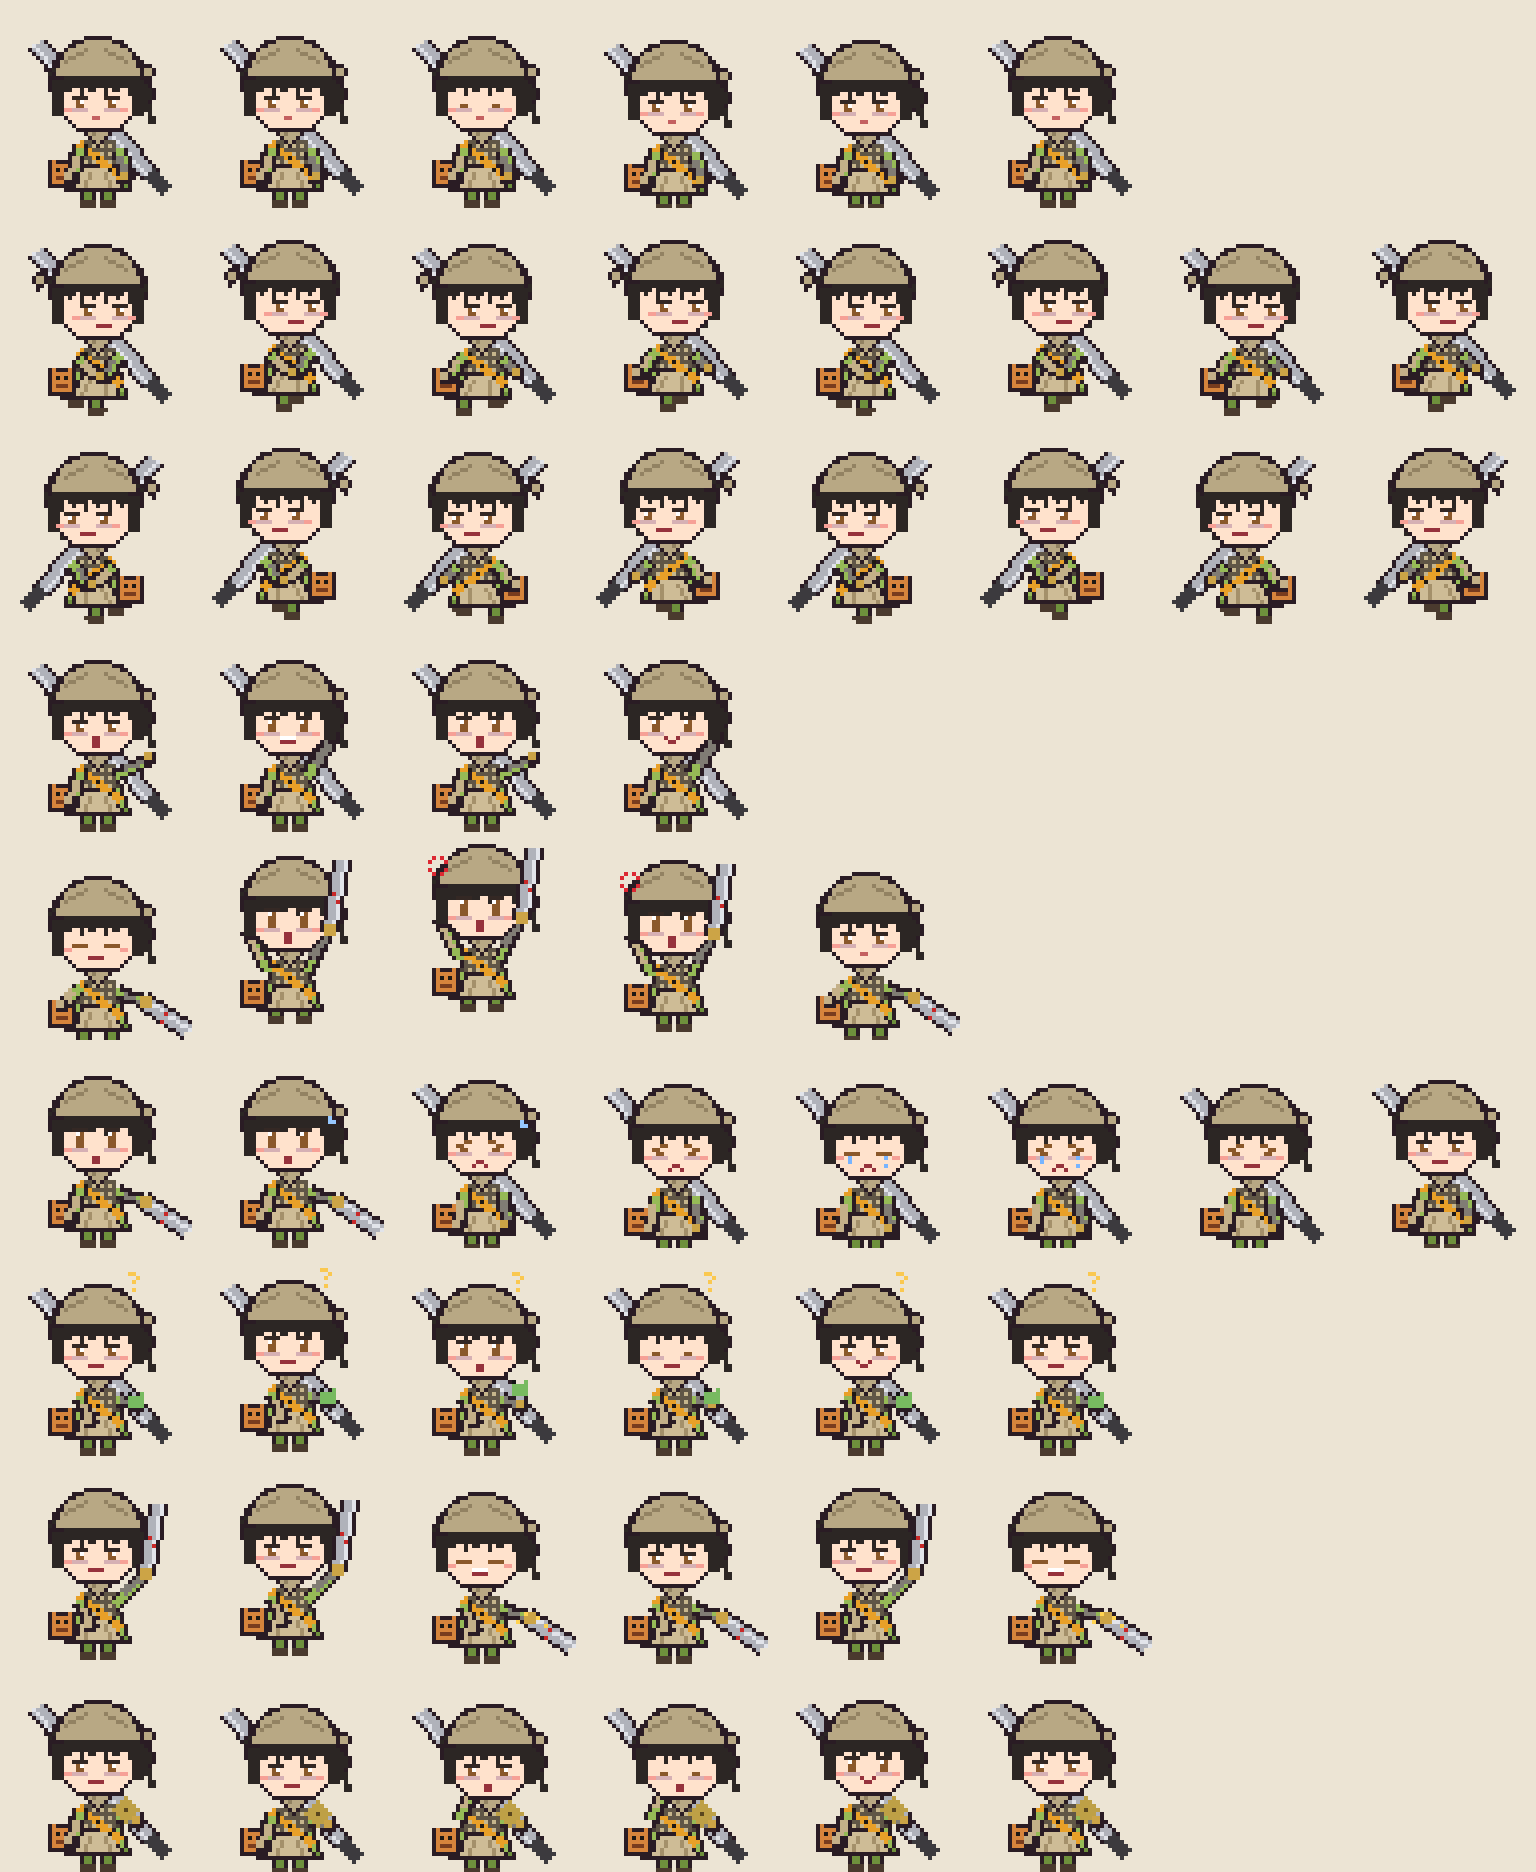
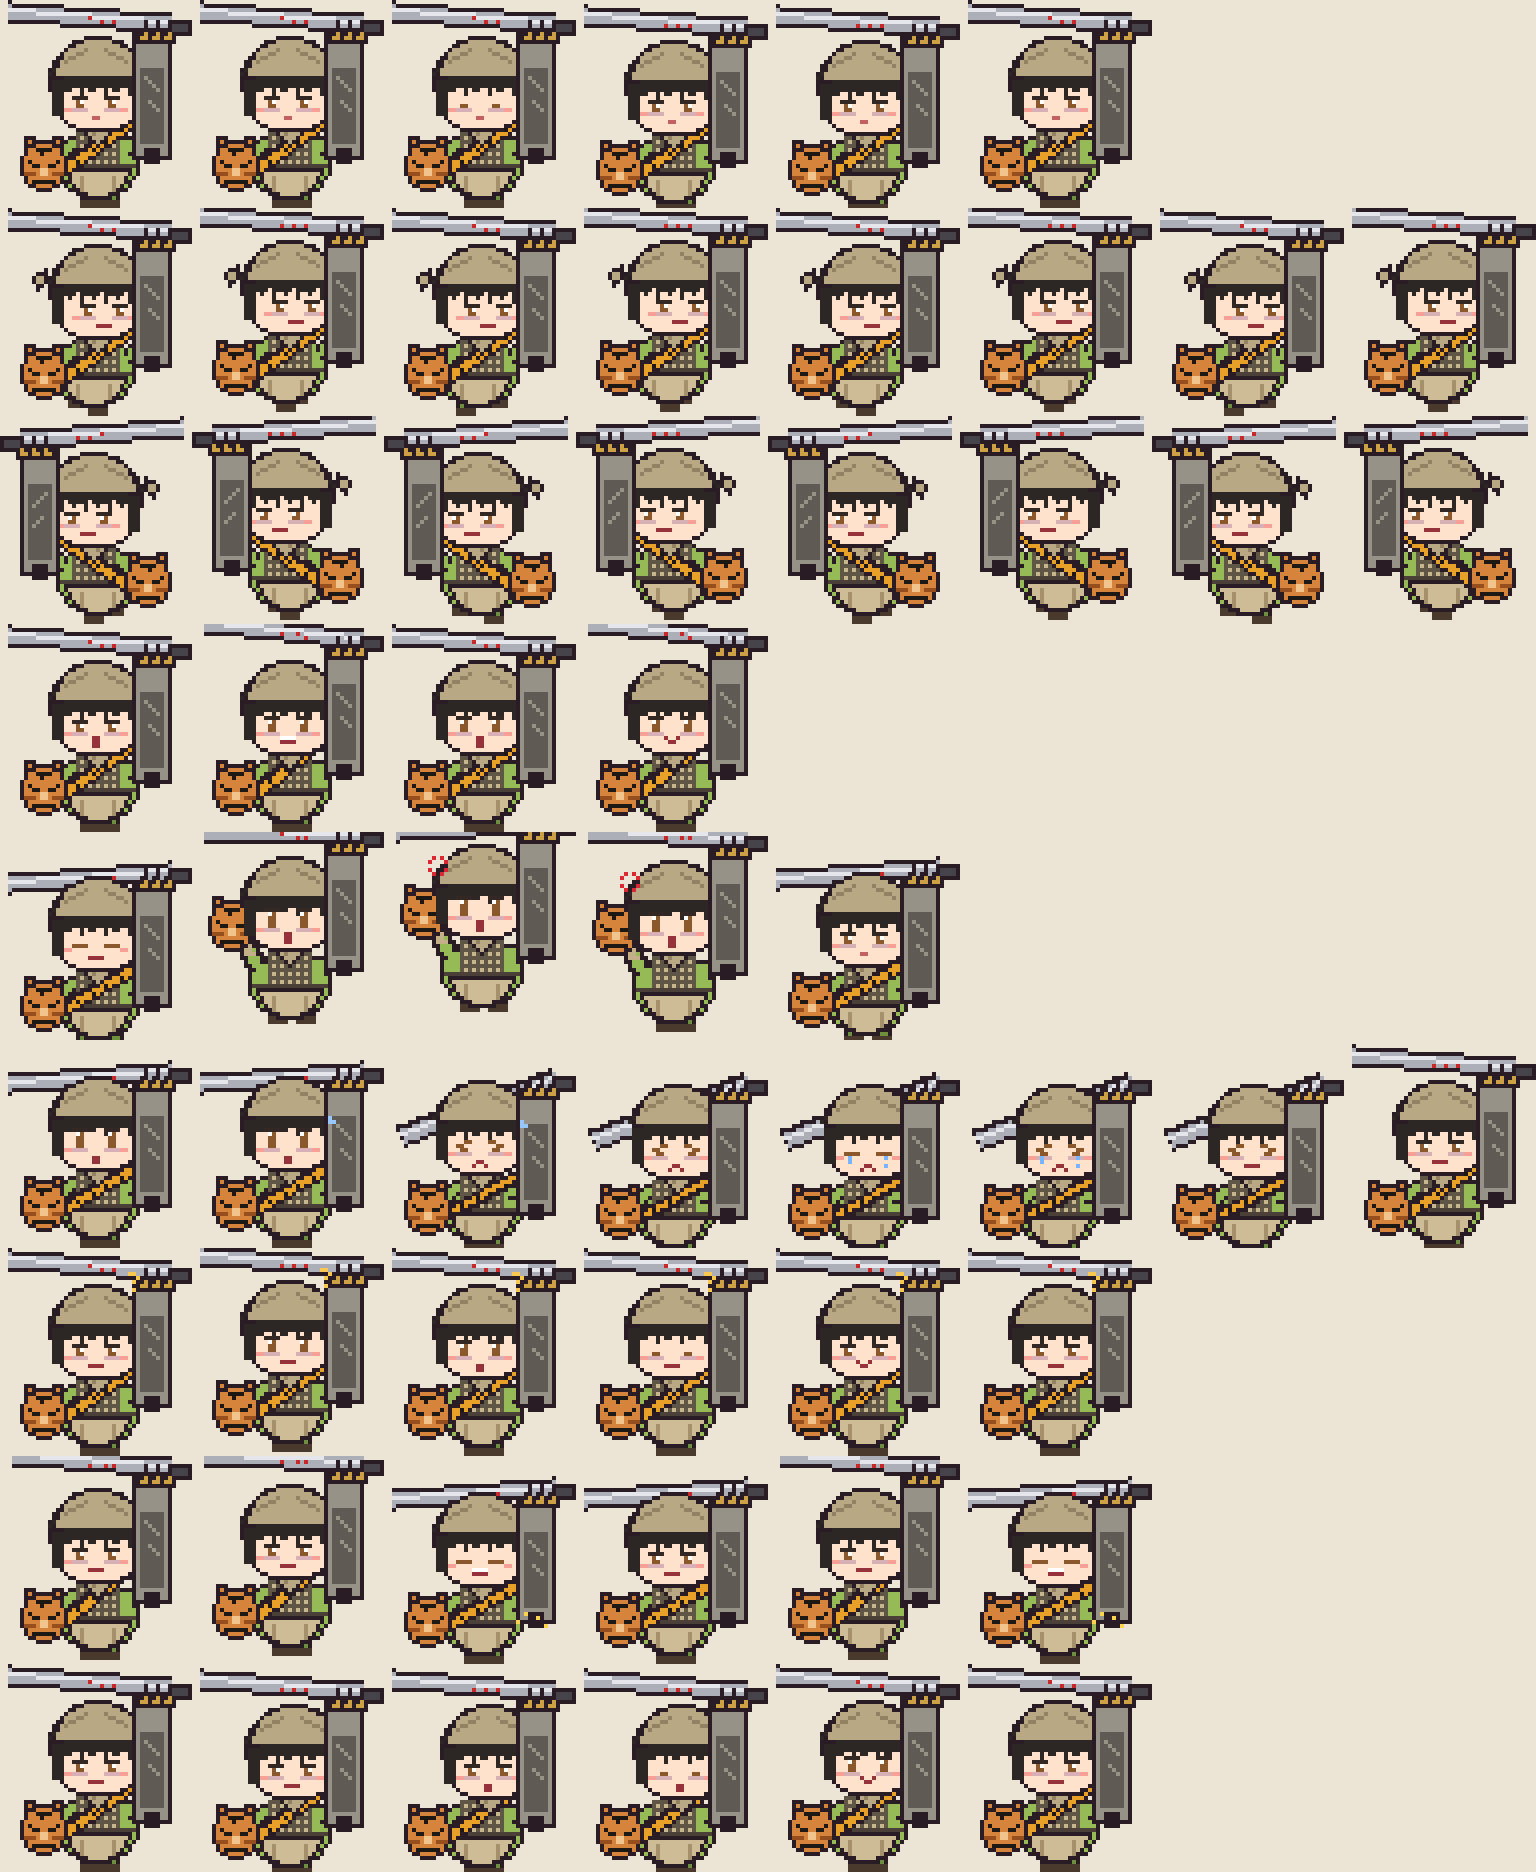
小竹改成圓滾滾身材；裂骨魔換成機關臂扛巨劍、虎紋背帶連虎頭盾
Claude-Session: https://claude.ai/code/session_014Ug96dnPv181rpAqSNBU9C

Changed region(s): [[0.0, 0.0, 1.0, 1.0]]

diff --git a/tools/build_sprites.py b/tools/build_sprites.py
@@ -79,6 +79,7 @@ CHARACTERS = {
         "blush": (246, 160, 150, 255),
         "bags": (214, 176, 180, 255),  # 黑眼圈
         "blush_always": True,
+        "round": True,  # 整隻圓滾滾：圓身體、粗手腳
         "long_hair": False,
         "height_drop": 2,
         "default_eyes": "drowsy",
@@ -89,7 +90,7 @@ CHARACTERS = {
 CHARACTERS["xiaozhu-battle"] = {
     **CHARACTERS["xiaozhu"],
     "displayName": "小竹・裂骨魔",
-    "description": "郁竹的戰鬥裝束：鐵網護甲、虎紋背帶、腰掛虎頭面具，機關臂扛著刻了紅紋的大刀。平常睏睏的，掄起兵器就是「裂骨魔」。（活俠傳同人）",
+    "description": "郁竹的戰鬥裝束：鐵網護甲，右臂是扛著紅紋巨劍的機關臂，虎紋背帶連著左手的虎頭盾。平常睏睏的，掄起兵器就是「裂骨魔」。（活俠傳同人）",
     "battle": True,
 }
 
@@ -163,18 +164,12 @@ def draw_frame(cid, pose):
     hx = 24 + dx + pose["tilt"]  # 頭中心
     hy = 19 + dy
     sx_l, sx_r, sy = 19 + dx, 29 + dx, 35 + dy  # 肩膀
+    if c.get("round"):
+        sx_l, sx_r, sy = 16 + dx, 32 + dx, 34 + dy  # 圓身體的肩膀在兩側
     hip_y = 44 + dy
 
     battle = c.get("battle", False)
-    holds_weapon = bool(pose["prop"]) and pose["prop"][0] == "hammer"
-    if battle and not holds_weapon:
-        # 斜背在身後的大刀，刀柄在右腰
-        p.line([(37 + dx, 41 + dy), (9 + dx, 9 + dy)], OUTLINE, 5)
-        p.line([(37 + dx, 41 + dy), (9 + dx, 9 + dy)], (176, 178, 186, 255), 3)
-        p.line([(36 + dx, 41 + dy), (8 + dx, 9 + dy)], (226, 228, 234, 255), 1)
-        for k in range(3):
-            p.px(14 + dx + k * 3, 15 + dy + k * 3, (200, 40, 40, 255))
-        p.line([(37 + dx, 41 + dy), (41 + dx, 45 + dy)], (60, 58, 62, 255), 3)
+    rnd = c.get("round", False)
 
     # 後髮
     sway = pose["hair_sway"]
@@ -198,9 +193,10 @@ def draw_frame(cid, pose):
     shoe, skin = c["shoe"], c["skin"]
 
     def leg(x, top, bottom, lift=0):
-        p.rect(x - 1, top, x + 2, bottom - lift, OUTLINE)
-        p.rect(x, top, x + 1, bottom - lift, c["leg"])
-        p.rect(x - 1, bottom - lift + 1, x + 2, bottom - lift + 2, shoe)
+        w = 3 if rnd else 2
+        p.rect(x - 1, top, x + w, bottom - lift, OUTLINE)
+        p.rect(x, top, x + w - 1, bottom - lift, c["leg"])
+        p.rect(x - 1, bottom - lift + 1, x + w, bottom - lift + 2, shoe)
 
     base_bottom = 47 + dy
     if legs == "stand":
@@ -226,9 +222,12 @@ def draw_frame(cid, pose):
 
     # 身體（裙裝）
     flare = -1 if face_r else 0
-    body = [(20 + dx, 33 + dy), (28 + dx, 33 + dy), (32 + dx + flare, 45 + dy), (16 + dx + flare, 45 + dy)]
-    p.poly(body, c["cloth"], OUTLINE)
-    p.line([(17 + dx + flare, 44 + dy), (31 + dx + flare, 44 + dy)], c["cloth_sh"])
+    if rnd:
+        p.ell(14 + dx + flare, 30 + dy, 34 + dx + flare, 47 + dy, c["cloth"], OUTLINE)
+    else:
+        body = [(20 + dx, 33 + dy), (28 + dx, 33 + dy), (32 + dx + flare, 45 + dy), (16 + dx + flare, 45 + dy)]
+        p.poly(body, c["cloth"], OUTLINE)
+        p.line([(17 + dx + flare, 44 + dy), (31 + dx + flare, 44 + dy)], c["cloth_sh"])
     if cid == "xiaomei":
         # 紅腰帶、紅裙襬、紅領
         p.rect(19 + dx, 38 + dy, 29 + dx, 39 + dy, c["accent"])
@@ -239,32 +238,20 @@ def draw_frame(cid, pose):
         p.px(30 + dx, 41 + dy, c["accent"])
     else:
         # 圍裙吊帶、深色腰帶、卡其長圍裙
-        p.line([(21 + dx, 33 + dy), (21 + dx, 38 + dy)], c["accent"])
-        p.line([(27 + dx, 33 + dy), (27 + dx, 38 + dy)], c["accent"])
-        p.poly([(20 + dx, 39 + dy), (28 + dx, 39 + dy), (30 + dx + flare, 45 + dy), (18 + dx + flare, 45 + dy)],
-               c["accent"], OUTLINE)
-        p.line([(22 + dx, 41 + dy), (21 + dx + flare, 44 + dy)], c["accent_sh"])
-        p.line([(26 + dx, 41 + dy), (27 + dx + flare, 44 + dy)], c["accent_sh"])
-        p.rect(19 + dx, 38 + dy, 29 + dx, 38 + dy, c["belt"])
+        p.line([(20 + dx, 32 + dy), (20 + dx, 38 + dy)], c["accent"], 2)
+        p.line([(27 + dx, 32 + dy), (27 + dx, 38 + dy)], c["accent"], 2)
+        p.d.chord([16 + dx + flare, 31 + dy, 32 + dx + flare, 47 + dy], 0, 180, fill=c["accent"], outline=OUTLINE)
+        p.line([(20 + dx + flare, 42 + dy), (20 + dx + flare, 45 + dy)], c["accent_sh"])
+        p.line([(28 + dx + flare, 42 + dy), (28 + dx + flare, 45 + dy)], c["accent_sh"])
+        p.line([(15 + dx + flare, 39 + dy), (33 + dx + flare, 39 + dy)], c["belt"])
 
     if battle:
         # 鐵網護甲
-        p.rect(20 + dx, 33 + dy, 28 + dx, 38 + dy, (198, 182, 140, 255))
-        for gx in range(20, 29, 2):
-            p.line([(gx + dx, 33 + dy), (gx + dx, 38 + dy)], (96, 86, 70, 255))
-        for gy in range(33, 39, 2):
-            p.line([(20 + dx, gy + dy), (28 + dx, gy + dy)], (96, 86, 70, 255))
-        # 虎紋背帶
-        p.line([(19 + dx, 33 + dy), (29 + dx, 41 + dy)], (232, 160, 40, 255), 2)
-        for k in (1, 4, 7):
-            p.px(19 + dx + k + 1, 33 + dy + k, (30, 24, 20, 255))
-        # 左腰的虎頭面具
-        mx0, my0 = 13 + dx, 39 + dy
-        p.rect(mx0 - 1, my0 - 1, mx0 + 5, my0 + 5, OUTLINE)
-        p.rect(mx0, my0, mx0 + 4, my0 + 4, (214, 132, 60, 255))
-        p.px(mx0 + 1, my0 + 1, (30, 24, 20, 255)); p.px(mx0 + 3, my0 + 1, (30, 24, 20, 255))
-        p.line([(mx0 + 1, my0 + 3), (mx0 + 3, my0 + 3)], (120, 60, 30, 255))
-        p.px(mx0, my0 - 1, (214, 132, 60, 255)); p.px(mx0 + 4, my0 - 1, (214, 132, 60, 255))
+        p.rect(19 + dx, 31 + dy, 29 + dx, 38 + dy, (198, 182, 140, 255))
+        for gx in range(19, 30, 2):
+            p.line([(gx + dx, 31 + dy), (gx + dx, 38 + dy)], (96, 86, 70, 255))
+        for gy in range(31, 39, 2):
+            p.line([(19 + dx, gy + dy), (29 + dx, gy + dy)], (96, 86, 70, 255))
 
     # 手臂
     al, ar = pose["arms"]
@@ -272,24 +259,80 @@ def draw_frame(cid, pose):
     def arm(sx, name, side):
         hdx, hdy = ARM_HANDS[name][side]
         ex, ey = sx + hdx, sy + hdy
-        p.line([(sx, sy), (ex, ey)], OUTLINE, 4)
-        p.line([(sx, sy), (ex, ey)], c["sleeve"], 2)
+        aw = 3 if rnd else 2
+        p.line([(sx, sy), (ex, ey)], OUTLINE, aw + 2)
+        p.line([(sx, sy), (ex, ey)], c["sleeve"], aw)
         p.px(ex, ey, OUTLINE)
         hand = c["skin"]
         if "glove" in c:  # 短袖，前臂到手掌是長手套
             mx, my = (sx * 2 + ex) // 3, (sy * 2 + ey) // 3
-            metal = c.get("battle") and side == 1
-            p.line([(mx, my), (ex, ey)], (128, 124, 116, 255) if metal else c["glove"], 2)
-            hand = (204, 164, 70, 255) if metal else c["glove"]
-        p.rect(ex - 1, ey - 1, ex + 1, ey + 1, OUTLINE)
-        p.rect(ex - 1, ey - 1, ex, ey, hand)
+            p.line([(mx, my), (ex, ey)], c["glove"], aw)
+            hand = c["glove"]
+        if rnd:
+            p.ell(ex - 2, ey - 2, ex + 2, ey + 2, hand, OUTLINE)
+        else:
+            p.rect(ex - 1, ey - 1, ex + 1, ey + 1, OUTLINE)
+            p.rect(ex - 1, ey - 1, ex, ey, hand)
         return ex, ey
+
+    if battle:
+        prop = pose["prop"]
+        if prop and prop[0] == "hammer":
+            blade = "high" if prop[1] == "up" else "low"
+        elif ar in ("up", "wave_up", "fist_up"):
+            blade = "high"
+        elif ar == "droop":
+            blade = "droop"
+        else:
+            blade = "rest"
+        rig_r = {"rest": 0, "high": -2, "low": 2, "droop": 3}[blade]
+        rig_y = dy - 2 + rig_r  # 原點以站姿為準
+        pose = dict(pose, prop=None)  # 戰鬥裝不拿鐵鎚
+        ar = "rig"
+        ARM_HANDS["rig"] = ((0, 0), (5, -1 + rig_r))
+        ARM_HANDS["shield"] = ((-4, 6), (0, 0))
+        al = "shield" if al in ("down", "hip", "front", "droop", "chin", "brow", "face", "ask", "swing_b", "swing_f") else al
 
     hand_l = arm(sx_l, al, 0)
     hand_r = arm(sx_r, ar, 1)
 
+    if battle:
+        # 虎紋背帶：從右邊機關臂斜過胸前，連到左手的虎頭盾
+        p.line([(33 + dx, 30 + rig_y), (16 + dx, hand_l[1])], OUTLINE, 4)
+        p.line([(33 + dx, 30 + rig_y), (16 + dx, hand_l[1])], (232, 160, 40, 255), 2)
+        for k in range(1, 5):
+            t = k / 5
+            px_ = round(33 + dx + (16 - 33) * t)
+            py_ = round(30 + rig_y + (hand_l[1] - 30 - rig_y) * t)
+            p.px(px_, py_, (30, 24, 20, 255))
+        # 虎頭盾
+        sx0, sy0 = hand_l[0] - 7, hand_l[1] - 6
+        orange, dark, stripe = (214, 132, 60, 255), (30, 24, 20, 255), (150, 78, 30, 255)
+        p.rect(sx0 + 1, sy0 - 2, sx0 + 3, sy0, OUTLINE); p.px(sx0 + 2, sy0 - 1, orange)
+        p.rect(sx0 + 8, sy0 - 2, sx0 + 10, sy0, OUTLINE); p.px(sx0 + 9, sy0 - 1, orange)
+        p.ell(sx0, sy0 - 1, sx0 + 11, sy0 + 11, orange, OUTLINE)
+        p.line([(sx0 + 4, sy0 + 1), (sx0 + 7, sy0 + 1)], dark)  # 額頭的「王」
+        p.px(sx0 + 5, sy0 + 2, dark)
+        p.line([(sx0 + 2, sy0 + 4), (sx0 + 4, sy0 + 5)], dark); p.line([(sx0 + 9, sy0 + 4), (sx0 + 7, sy0 + 5)], dark)
+        p.line([(sx0 + 1, sy0 + 7), (sx0 + 3, sy0 + 7)], stripe); p.line([(sx0 + 8, sy0 + 7), (sx0 + 10, sy0 + 7)], stripe)
+        p.rect(sx0 + 5, sy0 + 6, sx0 + 6, sy0 + 7, (240, 196, 140, 255))
+        p.line([(sx0 + 3, sy0 + 9), (sx0 + 8, sy0 + 9)], dark)
+
+    if battle:
+        # 紅紋巨劍：劍柄被機關臂的爪子抓住，劍身越過頭頂伸向左邊
+        grip = (42, 6 + rig_y)
+        tip = {"rest": (2, 3 + rig_y), "high": (3, max(0, rig_y)), "low": (2, 9 + rig_y), "droop": (4, 20 + rig_y)}[blade]
+        p.line([grip, tip], OUTLINE, 6)
+        p.line([grip, tip], (172, 174, 184, 255), 4)
+        p.line([(grip[0], grip[1] - 1), (tip[0], tip[1] - 1)], (228, 230, 236, 255), 1)
+        for t in (0.35, 0.42, 0.5):
+            p.px(round(grip[0] + (tip[0] - grip[0]) * t), round(grip[1] + (tip[1] - grip[1]) * t), (200, 40, 40, 255))
+        p.line([(42, 6 + rig_y), (47, 6 + rig_y)], OUTLINE, 4)
+        p.line([(42, 6 + rig_y), (46, 6 + rig_y)], (70, 68, 74, 255), 2)
+
     # 頭
-    p.ell(hx - 10, hy - 8, hx + 10, hy + 12, c["skin"], OUTLINE)
+    hw = 11 if rnd else 10  # 小竹臉頰比較圓
+    p.ell(hx - hw, hy - 8, hx + hw, hy + 12, c["skin"], OUTLINE)
     # 瀏海
     hair = c["hair"]
     p.d.chord([hx - 11, hy - 12, hx + 11, hy + 8], 180, 360, fill=hair, outline=OUTLINE)
@@ -463,6 +506,19 @@ def draw_frame(cid, pose):
         elif kind == "needle":  # 審視時指間一根銀針（千燈樓的伏筆）
             x, y = hand_r
             p.line([(x, y - 1), (x + 3, y - 4)], (210, 214, 224, 255))
+
+    if battle:
+        # 機關臂：右前臂是一整塊直立的機關板，頂端三隻爪子抓著劍柄
+        brass, steel, deep = (206, 160, 70, 255), (150, 146, 136, 255), (96, 90, 84, 255)
+        px0, py0, py1 = 34 + dx, 9 + rig_y, 38 + rig_y
+        p.rect(px0 - 1, py0 - 1, px0 + 8, py1 + 1, OUTLINE)
+        p.rect(px0, py0, px0 + 7, py1, steel)
+        p.rect(px0 + 1, py0 + 8, px0 + 6, py1 - 3, deep)
+        p.line([(px0 + 2, py0 + 10), (px0 + 5, py0 + 13)], steel); p.line([(px0 + 3, py0 + 16), (px0 + 5, py0 + 18)], steel)
+        p.rect(px0 + 2, py1 - 1, px0 + 5, py1 + 2, OUTLINE)
+        for k in range(3):
+            cx = px0 + 1 + k * 3
+            p.poly([(cx - 1, py0 + 1), (cx + 2, py0 + 1), (cx + 1, py0 - 4)], brass, OUTLINE)
 
     # 附著效果（不脫離角色本體）
     for f in pose["fx"]:
